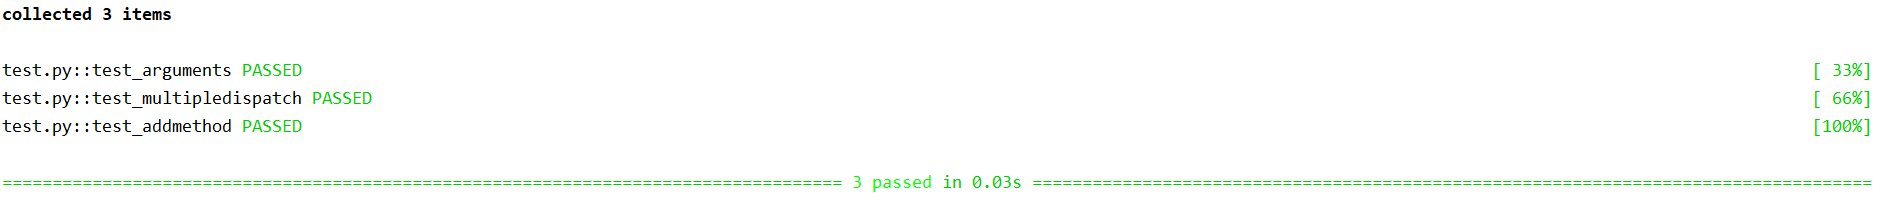
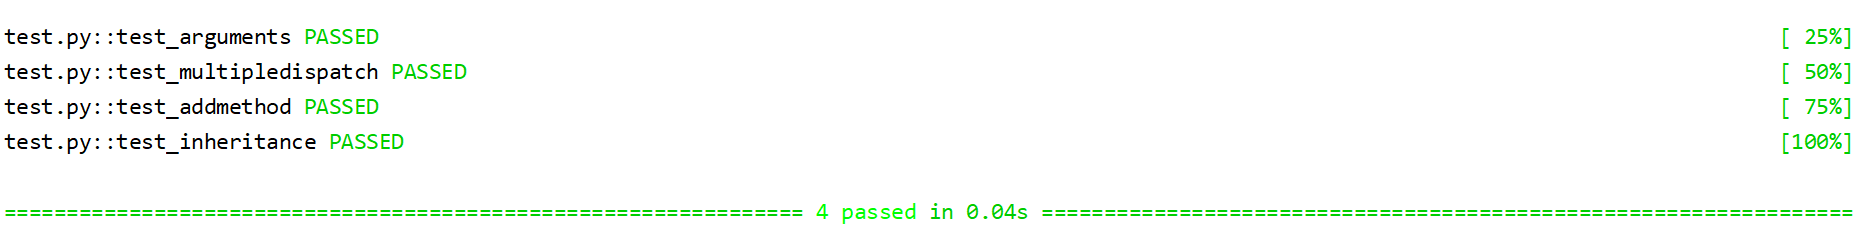
update

diff --git a/src/multimethod.py b/src/multimethod.py
@@ -1,6 +1,3 @@
-registry = {}
-
-
 class MultiMethod(object):
     """
     Dispatch methods based on type signature
@@ -17,11 +14,11 @@ class MultiMethod(object):
         self.funcs = {}
         self.typemap = {}
 
-    def register(self, *types):
+    def register(self, *types, **kwargs):
         """ register dispatcher with new implementation"""
 
         def _(func):
-            self.add(types, func)
+            self.add(types, func, **kwargs)
             return func
 
         return _
@@ -29,8 +26,9 @@ class MultiMethod(object):
     def add(self, signature, func):
         """"" Add new types/method pair to dispatcher"""
         self.funcs[signature] = func
+        self.ordering = ordering(self.funcs)
 
-    def __call__(self, *args):
+    def __call__(self, *args, **kwargs):
         """
         Make the MultiMethod object itself callable.
         It looks up the actual function to be called in the type map based on the parameter type passed in.
@@ -41,11 +39,87 @@ class MultiMethod(object):
         except KeyError:
             func = self.dispatch(*types)
             self.typemap[types] = func
-        return func(*args)
+        return func(*args, **kwargs)
 
     def dispatch(self, *types):
         """Deterimine appropriate implementation for this type signature"""
-        return self.funcs[types]
+        if types in self.funcs:
+            return self.funcs[types]
+        return next(self.dispatch_iter(*types))
+
+    def dispatch_iter(self, *types):
+        n = len(types)
+        for signature in self.ordering:
+            if len(signature) == n and all(map(issubclass, types, signature)):
+                result = self.funcs[signature]
+                yield result
+
+
+def ordering(sign):
+    """
+    A sane ordering of signatures to check, first to lastTopoological sort of edges
+    """
+    sign = list(map(tuple, sign))
+    edges = [(a, b) for a in sign for b in sign if edge(a, b)]
+    edges = group(lambda x: x[0], edges)
+    for s in sign:
+        if s not in edges:
+            edges[s] = []
+    edges = dict((k, [b for a, b in v]) for k, v in edges.items())
+    return topoSort(edges)
+
+
+def edge(a, b, tie_breaker=hash):
+    if (tie_breaker(a) > tie_breaker(b)):
+        return True
+    return False
+
+
+def topoSort(edges):
+    """
+    inputs:
+        edges - a dict of the form {a: {b, c}} where b and c depend on a
+    outputs:
+        L - an ordered list of nodes that satisfy the dependencies of edges
+    """
+    inputedges = dictionaryReverse(edges)
+    inputedges = dict((k, set(val)) for k, val in inputedges.items())
+    S = set((v for v in edges if v not in inputedges))
+    orderList = []
+
+    while (S):
+        node = S.pop()
+        orderList.append(node)
+        for i in edges.get(node):
+            inputedges[i].remove(node)
+            if not inputedges[i]:
+                S.add(i)
+    return orderList
+
+
+def dictionaryReverse(d):
+    """
+    Reverses direction of dependence dict
+    """
+    result = {}
+    for key in d:
+        for val in d[key]:
+            result[val] = result.get(val, tuple()) + (key,)
+    return result
+
+
+def group(fun, edges):
+    """
+    Group a collection by a key function
+    """
+
+    d = {}
+    for item in edges:
+        key = fun(item)
+        if key not in d:
+            d[key] = list()
+        d[key].append(item)
+    return d
 
 
 global_namespace = {}

diff --git a/src/test.py b/src/test.py
@@ -37,3 +37,29 @@ def test_addmethod():
 
     assert D(1, 2) == 3
     assert D(1.0, 2.0) == 3.0
+
+
+class A(object):
+    pass
+
+
+class B(A):
+    pass
+
+
+class C(A):
+    pass
+
+
+def test_inheritance():
+    @dispatch(A)
+    def foo(x):
+        return 'AA'
+
+    @dispatch(C)
+    def foo(x):
+        return 'CC'
+
+    assert foo(A()) == 'AA'
+    assert foo(B()) == 'AA'
+    assert foo(C()) == 'CC'

diff --git a/README.md b/README.md
@@ -3,6 +3,9 @@ Computer Process Organization Course Lab Work 3
 
 ## library Description
 #### The library should support multiple-dispatch on positional, optional and named arguments.
+
+#### The library should support inheritance
+
 #### Use unit tests with several multi-methods, All tests passed(src/test_result.png).
 
 ## file Description:
